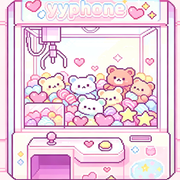
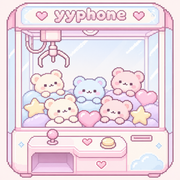
完善桌面图标分类与新增美化，修正撤回上下文和圣诞背景安全区

diff --git a/src/components/christmas.css b/src/components/christmas.css
@@ -1,5 +1,8 @@
 .christmas-scene{position:absolute;inset:0;z-index:190;isolation:isolate;overflow:hidden;background:#dbe3ee;color:#695e5a;font-family:'Songti SC','STSong',serif}.christmas-art{position:absolute;left:50%;top:50%;width:max(100%,calc(100cqh * .4615));height:max(100%,calc(100cqw / .4615));aspect-ratio:852/1846;transform:translate(-50%,-50%)}.christmas-scene{container-type:size}.christmas-art>img{position:absolute;width:100%;height:100%;object-fit:fill}.christmas-hotspot{position:absolute;border:0;background:transparent;cursor:pointer}.christmas-hotspot:focus-visible{outline:2px solid #fffbdf;outline-offset:2px;border-radius:20px}.christmas-tree{left:6%;top:24%;width:41%;height:41%}.christmas-star{position:absolute;top:0;left:45%;font-size:48px;color:#fff6d6;opacity:.25;transition:opacity 1s,filter 1s}.is-lit .christmas-star{opacity:1;filter:drop-shadow(0 0 18px #ffe2a3)}.is-lit .christmas-tree{background:radial-gradient(ellipse,#ffe3b72a,transparent 70%)}.christmas-door{left:86%;top:47%;width:12%;height:15%}.christmas-dog{font-size:30px;position:absolute;bottom:0;left:0;animation:xmas-appear .6s ease-out}.christmas-role-gift{left:15%;top:67%;width:16%;height:11%}.christmas-creator-gift{left:31%;top:69%;width:15%;height:11%}.christmas-hotspot>i{position:absolute;width:7px;height:7px;border-radius:50%;background:#fff9d8;box-shadow:0 0 16px 7px #fff6d575;animation:xmas-glow 2.6s ease-in-out infinite;left:50%;top:35%}.christmas-top{position:absolute;top:0;left:0;right:0;display:flex;justify-content:space-between;align-items:center;padding:calc(var(--safe-top,env(safe-area-inset-top,0px)) + 16px) 18px 12px;color:#fdfaf2;text-shadow:0 1px 8px #63718b66;font-size:13px;letter-spacing:2px}.christmas-top button{border:1px solid #ffffff77;border-radius:30px;padding:8px 12px;background:#ffffff26;backdrop-filter:blur(8px);color:#fffdf6;font:11px sans-serif;letter-spacing:0}.christmas-caption{position:absolute;bottom:calc(env(safe-area-inset-bottom,0px) + 26px);left:10px;right:10px;text-align:center;letter-spacing:2px;font-size:13px;color:#62595b;text-shadow:0 0 8px #fff}.christmas-snow{position:absolute;inset:0;pointer-events:none;overflow:hidden}.christmas-snow i{position:absolute;top:-12px;width:3px;height:3px;border-radius:50%;background:#fff;opacity:.8;animation:xmas-snow 10s linear infinite}.christmas-sheet-backdrop{position:absolute;inset:0;display:flex;align-items:center;justify-content:center;padding:calc(var(--safe-top,env(safe-area-inset-top,0px)) + 42px) 23px calc(env(safe-area-inset-bottom,0px) + 48px);background:#56617c20;backdrop-filter:blur(4px)}.christmas-scroll{position:relative;width:min(100%,420px);max-height:100%;overflow:auto;overscroll-behavior:contain;padding:35px 25px 30px;background:linear-gradient(90deg,#e8d9c5,#fff9ed 7%,#fffdf4 50%,#faf1df 93%,#e2cfb4);border-block:7px solid #bdab91;border-radius:6px;box-shadow:0 16px 60px #53627a40;animation:xmas-unroll .9s cubic-bezier(.2,.7,.2,1);transform-origin:center;color:#786c61;text-align:center}.christmas-scroll:before,.christmas-scroll:after{content:'';display:block;height:1px;background:#bfa78344;margin:0 0 16px}.christmas-scroll:after{margin:22px 0 0}.christmas-sheet-close{position:absolute;right:10px;top:7px;border:0;background:none;color:#9b8c7d;font-size:25px}.christmas-scroll>small{font:8px sans-serif;letter-spacing:3px;color:#a9967e}.christmas-scroll h1{font-weight:400;font-size:25px;letter-spacing:3px;margin:12px 0 24px}.christmas-scroll p{font-size:13px;line-height:2}.christmas-scroll label{display:block;text-align:left;font-size:12px;margin:16px 0}.christmas-scroll textarea,.christmas-scroll select{display:block;width:100%;margin-top:9px;border:1px solid #bda88b55;background:#fffdf788;border-radius:7px;padding:11px;color:#74675d;font:14px/1.9 inherit;box-sizing:border-box}.christmas-scroll textarea{resize:vertical;min-height:110px;max-height:35vh}.christmas-action{background:#98a99f;border:1px solid #ffffffaa;color:white;border-radius:30px;padding:11px 25px;font-size:12px;margin-top:12px;letter-spacing:2px}.christmas-scroll button:disabled{opacity:.55}.christmas-letter{white-space:pre-wrap;text-align:left;font-size:14px;line-height:2.15}.christmas-scroll footer{text-align:right;font-size:12px;margin-top:20px}.christmas-gift-description{border-block:1px solid #bfa78344;padding:12px 0;font-style:italic}.christmas-theme-swatch{height:130px;border-radius:10px;background:linear-gradient(#eef3f1bb,#f2e6dbbb),url('/openings/christmas.webp') center 56%/cover;color:#a58c69;padding:16px;font-size:30px}.christmas-theme-swatch span,.christmas-theme-swatch small{display:block;font-size:20px;letter-spacing:3px}.christmas-theme-swatch small{font:10px/3 sans-serif;letter-spacing:2px}.christmas-preview-note{color:#a9967e;font-size:10px!important}.christmas-error{color:#b15f68!important}.christmas-home{background:linear-gradient(#e9eff3aa,#fff5eab8),url('/openings/christmas.webp') center/cover!important;color:#6b7b7b}.christmas-home .minimal-day,.christmas-home .minimal-app-tile{background:#fffcf0bd;border-color:#fffaf0}.christmas-home .minimal-home-header{color:#958c7a}.christmas-home .minimal-app-glyph{color:#829487}.leisure-christmas{background:linear-gradient(#eaf0f4c9,#fff5eac9),url('/openings/christmas.webp') center/cover}.leisure-christmas .leisure-app-icon,[data-dock-style=christmas] .home-system-icon{background:#fffcf0c7;color:#829487;border:1px solid #fffdf5}.christmas-home .minimal-profile{border-bottom-color:#d6c9b6}.christmas-home .minimal-day:after{content:'❄';color:#ae9980;font-size:26px}
 [data-home-wallpaper] .christmas-home{background:transparent!important}
+:root{--christmas-desktop-background:linear-gradient(180deg,#e4eef8a8,#f7f7f1b0 45%,#e4eef3aa),url('/openings/christmas.webp') center/cover no-repeat}
+/* One canvas paints the wallpaper beneath both desktop pages, status bar and safe areas. */
+[data-home-style=christmas] :is(.christmas-home,.leisure-christmas){background:transparent!important}
 .christmas-password{display:flex;align-items:flex-end;gap:10px}.christmas-password label{flex:1;min-width:0;font-size:12px;color:#82919b}.christmas-password input{display:block;box-sizing:border-box;margin-top:9px;width:100%;padding:10px 12px;background:#ffffffa8;border:1px solid #d7e4eb;border-radius:12px;color:#586d79}.christmas-password button{padding:10px 18px;border-radius:12px;background:#dce8ef;font-size:12px;color:#5c7889}
 .christmas-snow-home{display:flex;flex-direction:column;position:relative;min-height:0;height:100%;overflow:hidden;background:linear-gradient(180deg,#e4eef8a8,#f7f7f1b0 45%,#e4eef3aa),url('/openings/christmas.webp') center/cover!important;color:#657e8c;font-family:'Songti SC','STSong',serif}.xmas-desktop-scroll{position:relative;min-height:0;flex:1;overflow-y:auto;overscroll-behavior:contain;padding:17px 22px 8px;scrollbar-width:none}.xmas-desktop-header{display:flex;align-items:center;justify-content:space-between;margin-bottom:22px}.xmas-desktop-header>span{font:9px/1.6 sans-serif;letter-spacing:3px;color:#7e939e}.xmas-desktop-header i{font-style:normal;font-size:15px;color:#fff;filter:drop-shadow(0 1px 2px #9eb8c2)}.xmas-desktop-header>div{display:flex;gap:15px}.xmas-desktop-header button{padding:4px}.xmas-profile{display:flex;align-items:center;gap:15px;margin-bottom:23px;padding:5px 0 10px}.xmas-snow-avatar{position:relative;isolation:isolate;flex-shrink:0;width:83px;height:83px;border-radius:50%;padding:var(--snow-frame,3px);background:linear-gradient(145deg,#ffffffee,#c9dce9aa);box-shadow:0 4px 16px #86a2b32a,inset 0 0 0 1px #fff}.xmas-snow-avatar>span{display:flex;align-items:center;justify-content:center;width:100%;height:100%;border-radius:50%;overflow:hidden;background:#e0ebf0;color:#8ca3b1;font:26px sans-serif}.xmas-snow-avatar img{width:100%;height:100%;object-fit:cover}.xmas-snow-cap{position:absolute;left:-3%;top:-8%;width:106%;height:55.12%;filter:drop-shadow(0 1px 1px #a5bfce33);pointer-events:none}.xmas-avatar-crystal{position:absolute;right:-5px;bottom:2px;width:25px;height:25px;color:#fff;background:#c7dce8b0;border-radius:50%;backdrop-filter:blur(3px);box-shadow:0 0 0 1px #ffffffb8}.xmas-avatar-crystal svg{width:100%;height:100%}.xmas-profile-copy{flex:1;min-width:0}.xmas-profile-copy>small{font:9px sans-serif;letter-spacing:1px;color:#91a2aa}.xmas-profile-copy h1{font-size:25px;line-height:1.3;overflow-wrap:anywhere;margin:7px 0;font-weight:400;color:#526b7b}.xmas-profile-copy p{font-size:11px;line-height:1.8;overflow-wrap:anywhere;margin:0;color:#85949b}.xmas-date-stamp{display:flex;flex-direction:column;align-items:center;justify-content:center;min-width:49px;padding-left:10px;border-left:1px solid #ffffffb3}.xmas-date-stamp>small{font:8px sans-serif;letter-spacing:2px;color:#8198a6}.xmas-date-stamp strong{font-weight:300;font-size:28px;line-height:1.3}.xmas-date-stamp>span{font:9px sans-serif;color:#879da9}
 .xmas-ice-music{position:relative;display:flex;align-items:center;gap:17px;min-height:148px;margin:0 -2px 15px;padding:14px 15px 14px 8px;border:1px solid #ffffffe6;border-radius:28px;background:linear-gradient(125deg,#ffffff82,#e2eef47a 50%,#f9faffb3);box-shadow:inset 0 1px 10px #ffffffc4,0 8px 24px #7895ab19;backdrop-filter:blur(9px)}.xmas-ice-music:before{content:'';position:absolute;left:32%;right:15%;top:-3px;height:6px;border-radius:50%;background:#fff9;filter:blur(2px)}.xmas-record-holder{position:relative;flex-shrink:0;width:125px;height:125px;display:grid;place-items:center}.xmas-ice-record{position:relative;width:113px;height:113px;overflow:hidden;border-radius:50%;border:1px solid #fffffff0;background:repeating-radial-gradient(circle,#d8eaf14d 0 2px,#ffffff3b 2px 3px,#a8c9d733 3px 4px),conic-gradient(from 35deg,#e4f5ff88,#f8ffffeb,#c9e2f3b8,#ffffffbd,#e4f5ff88);box-shadow:inset 0 0 0 5px #ffffff66,inset 0 0 14px #bad5e18c,0 7px 10px #88aab328;animation:xmas-record-spin 26s linear infinite;animation-play-state:paused}.xmas-ice-record.is-playing{animation-play-state:running}.xmas-ice-record>svg{position:absolute;inset:6%;width:88%;height:88%;color:#fffffff5;filter:drop-shadow(0 0 2px #a6c7d9)}.xmas-record-center{position:absolute;left:43%;top:43%;width:14%;height:14%;border-radius:50%;background:#e4f0f5;border:3px solid #fff;box-shadow:0 0 0 3px #b9d5e066}.xmas-record-glint{position:absolute;inset:0;border-radius:50%;background:linear-gradient(120deg,transparent 20%,#fff9 23%,transparent 28%,transparent 70%,#fff9 72%,transparent 74%);pointer-events:none}.xmas-record-needle{position:absolute;width:35px;height:58px;right:1px;top:1px;border-top:3px solid #9bb3c0;border-right:3px solid #9bb3c0;border-radius:0 10px 0 0;transform:rotate(23deg);transform-origin:top right;filter:drop-shadow(1px 1px 1px #fff)}.xmas-record-needle:after{content:'';position:absolute;width:7px;height:13px;right:-5px;bottom:-4px;background:#d2bdbf;border:1px solid #fffbf2;border-radius:3px}.xmas-music-copy{flex:1;min-width:0}.xmas-music-copy>small{font:7px/1.5 sans-serif;letter-spacing:2px;color:#99aab4}.xmas-song-title{display:block;max-width:100%;font-size:17px;font-family:inherit;overflow:hidden;text-overflow:ellipsis;white-space:nowrap;margin:9px 0 6px;color:#5f7c8c}.xmas-music-copy>p{margin:0;font-size:10px;color:#98a8b2;overflow-wrap:anywhere}.xmas-music-controls{display:flex;align-items:center;gap:10px;margin-top:14px}.xmas-music-controls button{color:#85a0b0;display:grid;place-items:center;width:22px;height:24px}.xmas-music-controls button:disabled{opacity:.3}.xmas-music-controls span{font:8px sans-serif;color:#97aab7;margin-left:auto}.xmas-desktop-divider{display:flex;align-items:center;gap:13px;justify-content:center;font-size:17px;color:#c0ced7;margin:17px 0}.xmas-desktop-divider span{height:1px;width:65px;background:linear-gradient(90deg,transparent,#ffffffd9,transparent)}.xmas-app-grid{display:grid;grid-template-columns:repeat(4,minmax(0,1fr));gap:20px 10px}.xmas-app{display:flex;flex-direction:column;align-items:center;gap:9px;color:#7b8f9d;font:10px sans-serif;min-width:0}.xmas-app-tile{position:relative;isolation:isolate;display:grid;place-items:center;width:49px;height:49px;border-radius:17px;background:linear-gradient(145deg,#faffffcf,#deebf1a1);border:1px solid #ffffffe6;box-shadow:inset 0 1px 7px #ffffffd9,0 4px 8px #7396ac13}.xmas-app-tile:before{content:'';position:absolute;pointer-events:none;top:-3px;left:7px;right:7px;height:8px;background:#fffefa;border-radius:60% 50% 45% 40%;box-shadow:0 1px 2px #a7c0ce1f}.xmas-app-tile:after{content:'';position:absolute;pointer-events:none;width:4px;height:7px;top:3px;left:12px;background:#fffefa;border-radius:0 0 5px 5px}.xmas-app-tile>img{width:100%;height:100%;object-fit:cover;border-radius:inherit}.xmas-app-glyph{width:23px;height:23px;stroke-width:1.4}.xmas-app-tile>small{position:absolute;top:-4px;right:-4px;padding:1px 4px;background:#c6aeb5;border-radius:10px;font:8px sans-serif;color:white;z-index:1}.xmas-home-footer{display:flex;justify-content:space-between;gap:10px;color:#98a7af;font-size:9px;margin-top:26px;padding:7px 0;letter-spacing:1px}.little-p-launcher.is-snowman{width:65px;height:77px;padding:0;background:none!important;border:0!important;box-shadow:none!important;border-radius:0;backdrop-filter:none;color:inherit}.little-p-snowman-art{width:100%;height:100%;filter:drop-shadow(0 3px 6px #829ca92b)}[data-dock-style=christmas]{background:linear-gradient(135deg,#fffdf5cf,#e6eff3b8);border:1px solid #ffffffed;box-shadow:inset 0 1px 10px #ffffffc9,0 7px 22px #839dae1f;backdrop-filter:blur(10px)}[data-dock-style=christmas] .home-system-icon{border-radius:18px;background:linear-gradient(145deg,#faffffdf,#e5eff6aa);color:#7c9aaa;box-shadow:inset 0 1px 4px #fff}[data-dock-style=christmas] .home-system-name{color:#8195a3}.leisure-christmas .leisure-app-icon{background:linear-gradient(145deg,#faffffe8,#e0edf4b0);box-shadow:inset 0 2px 3px #fff,0 3px 8px #8ca6b31f;border-color:#fff;color:#819ba9}.leisure-christmas .leisure-app{color:#8195a3}.christmas-snow-home.has-wallpaper{background:transparent!important}

diff --git a/src/components/LauncherIconSettings.tsx b/src/components/LauncherIconSettings.tsx
@@ -1,23 +1,27 @@
-import { useState } from 'react';
-import { Check, ChevronDown, Download, Smartphone } from 'lucide-react';
-import { LAUNCHER_ICONS, launcherIconPaths, readLauncherIcon, saveLauncherIcon, type LauncherIconId } from '../utils/launcherIcons';
+import { useEffect, useRef, useState } from 'react';
+import { createPortal } from 'react-dom';
+import { ArrowLeft, Check, ChevronRight, Download, Smartphone } from 'lucide-react';
+import { DEFAULT_LAUNCHER_ICON, LAUNCHER_ICON_CATEGORIES, LAUNCHER_ICONS, launcherIconPaths, readLauncherIcon, saveLauncherIcon, type LauncherIconId } from '../utils/launcherIcons';
+import './launcherIconSettings.css';
 
 export function LauncherIconSettings() {
-  const [selected, setSelected] = useState(readLauncherIcon), [error, setError] = useState('');
-  const choose = (id: LauncherIconId) => {
-    try { saveLauncherIcon(id); setSelected(id); setError(''); }
-    catch { setError('图标选择未能保存，请重试。'); }
-  };
-  const paths = launcherIconPaths(selected), current = LAUNCHER_ICONS.find(icon => icon.id === selected)!;
-  return <details className="glass-card group rounded-2xl p-3 launcher-icon-settings">
-    <summary className="flex cursor-pointer list-none items-center gap-2 text-xs font-bold text-[#2C4A5C]"><Smartphone size={14} className="text-sky-500"/><span className="flex-1">手机桌面图标</span><ChevronDown size={13} className="text-slate-400 transition-transform group-open:rotate-180"/></summary>
-    <div className="mt-3 space-y-3">
-      <div className="grid grid-cols-4 gap-2">{LAUNCHER_ICONS.map(icon => <button key={icon.id} type="button" aria-label={`选择${icon.name}桌面图标`} aria-pressed={selected === icon.id} onClick={() => choose(icon.id)} className="min-w-0 space-y-1.5 text-center text-[10px] text-slate-500">
-        <span className={`relative block aspect-square overflow-hidden rounded-2xl border-2 ${selected === icon.id ? 'border-sky-300 shadow-sm' : 'border-white/70'}`}><img src={launcherIconPaths(icon.id).image} alt={icon.name} className="h-full w-full object-cover" loading="lazy"/>{selected === icon.id && <span className="absolute right-0.5 bottom-0.5 rounded-full bg-white p-0.5 text-sky-500"><Check size={11}/></span>}</span><span>{icon.name}</span>
-      </button>)}</div>
-      <a href={paths.image} download={`歪歪机-${current.name}.png`} className="inline-flex items-center gap-1.5 rounded-xl bg-white/80 px-3 py-2 text-[11px] text-slate-600"><Download size={12}/>保存图标</a>
-      <p className="text-[10px] leading-relaxed text-slate-500">如果浏览器不支持直接更换图标，请先导出整机备份，再在浏览器打开歪歪机网页，选择图标后添加到手机桌面，最后按需导入备份。备份完成前请保留旧入口。</p>
-      {error && <p role="alert" className="text-[11px] text-rose-500">{error}</p>}
-    </div>
-  </details>;
+  const [selected,setSelected]=useState(readLauncherIcon),[error,setError]=useState('');
+  const [open,setOpen]=useState(false),[category,setCategory]=useState('全部');
+  const [container,setContainer]=useState<HTMLElement|null>(null);
+  const entry=useRef<HTMLButtonElement>(null),dialog=useRef<HTMLElement>(null),back=useRef<HTMLButtonElement>(null);
+  useEffect(()=>{if(!open)return;back.current?.focus({preventScroll:true});return()=>entry.current?.focus({preventScroll:true});},[open,container]);
+  const choose=(id:LauncherIconId)=>{try{saveLauncherIcon(id);setSelected(id);setError('');}catch{setError('图标选择未能保存，请重试。');}};
+  const paths=launcherIconPaths(selected),current=LAUNCHER_ICONS.find(icon=>icon.id===selected)!;
+  return <>
+    <button type="button" ref={entry} className="glass-card launcher-gallery-entry" aria-haspopup="dialog" aria-expanded={open} onClick={()=>{setSelected(readLauncherIcon());setError('');setContainer(entry.current?.closest<HTMLElement>('[data-phone-canvas]')??document.body);setOpen(true);}}><span className="launcher-entry-symbol"><Smartphone size={18}/></span><strong>小手机图标</strong><img src={paths.image} alt=""/><small>{current.name}</small><ChevronRight size={15}/></button>
+    {open&&container&&createPortal(<section ref={dialog} className="launcher-gallery" role="dialog" aria-modal="true" aria-label="小手机图标" onKeyDown={e=>{
+      if(e.key==='Escape'){e.stopPropagation();setOpen(false);}
+      if(e.key==='Tab'){const items=Array.from(dialog.current?.querySelectorAll<HTMLElement>('button:not(:disabled),a[href],summary')??[]).filter(n=>n.getClientRects().length),first=items[0],last=items.at(-1);if(e.shiftKey&&document.activeElement===first){e.preventDefault();last?.focus();}else if(!e.shiftKey&&document.activeElement===last){e.preventDefault();first?.focus();}}
+    }}>
+      <header><button type="button" ref={back} data-swipe-back aria-label="返回美化" onClick={()=>setOpen(false)}><ArrowLeft size={21}/></button><h2>小手机图标</h2><span/></header>
+      <nav className="launcher-category-tabs" aria-label="图标分类">{['全部',...LAUNCHER_ICON_CATEGORIES].map(name=><button key={name} type="button" aria-pressed={category===name} onClick={()=>setCategory(name)}>{name}</button>)}</nav>
+      <div className="launcher-gallery-scroll">{LAUNCHER_ICON_CATEGORIES.filter(name=>category==='全部'||category===name).map(name=><section className="launcher-icon-group" key={name} aria-label={`${name}图标`}><h3>{name}</h3><div className={`launcher-icon-grid${name==='游戏机'?' is-machines':''}`}>{LAUNCHER_ICONS.filter(icon=>icon.category===name).map(icon=><button key={icon.id} type="button" aria-label={`选择${icon.name}桌面图标`} aria-pressed={selected===icon.id} onClick={()=>choose(icon.id)}><span className="launcher-icon-preview"><img src={launcherIconPaths(icon.id).image} alt={icon.name} loading="lazy"/>{selected===icon.id&&<i><Check size={13}/></i>}</span><span>{icon.name}{icon.id===DEFAULT_LAUNCHER_ICON&&<small>默认</small>}</span></button>)}</div></section>)}</div>
+      <footer><div><img src={paths.image} alt=""/><span><small>当前图标</small><strong>{current.name}</strong></span><a href={paths.image} download={`歪歪机-${current.name}.png`}><Download size={14}/>保存图标</a></div><details><summary>桌面图标没有更新？</summary><p>如果浏览器不支持直接更换图标，请先导出整机备份，再在浏览器打开歪歪机网页，选择图标后添加到手机桌面，最后按需导入备份。备份完成前请保留旧入口。</p></details>{error&&<p role="alert">{error}</p>}</footer>
+    </section>,container)}
+  </>;
 }

diff --git a/src/utils/chatRecall.test.ts b/src/utils/chatRecall.test.ts
@@ -1,10 +1,11 @@
 import assert from 'node:assert/strict';
-import { beforeEach, test } from 'node:test';
+import { afterEach, beforeEach, mock, test } from 'node:test';
 import { clearDbStorage } from './dbStorage';
 import { writeStoredValue } from './localStorage';
 import { canRecallMessage, recallContext, recallMessage, recallTimeline, parseRecallActions, characterRecallInstructions, validChatRecall, type RecallMessage } from './chatRecall';
 import { buildPrompt } from './buildPrompt';
 import { readDirectMessages } from './journalData';
+import { generatePhoneScope } from './phoneAi';
 
 const values = new Map<string, string>();
 Object.defineProperty(globalThis, 'window', { configurable: true, value: { localStorage: {
@@ -12,6 +13,7 @@ Object.defineProperty(globalThis, 'window', { configurable: true, value: { local
   clear: () => values.clear(), key: (i: number) => [...values.keys()][i] ?? null, get length() { return values.size; },
 } } });
 beforeEach(async () => { values.clear(); await clearDbStorage(); });
+afterEach(() => mock.restoreAll());
 const user: RecallMessage = { id: 'user-message', senderId: 'user', kind: 'text', text: 'WITHDRAWN_PRIVATE_SENTINEL', createdAt: '2026-11-12T12:00:00Z' };
 const char: RecallMessage = { id: 'char-message', senderId: 'a', kind: 'text', text: 'CHAR_PRIVATE_SENTINEL', createdAt: '2026-11-12T12:01:00Z' };
 function seed(messages: RecallMessage[], type = 'direct') {
@@ -79,6 +81,44 @@ test('proactive contact never promotes an empty recalled message to current inpu
   assert.match(JSON.stringify(prompt), /上次聊天间隔/);
   seed([recallMessage(user, ['a'], [], () => .99)]);
   assert.doesNotMatch(JSON.stringify(buildPrompt({ chatId: 'chat', currentInput: '', proactive: true })), /WITHDRAWN_PRIVATE_SENTINEL/);
+});
+
+test('unseen recall is only a notice; seen recall contains the text without instructions to question the user', () => {
+  const unseen = recallMessage(user, ['a'], [], () => .99);
+  assert.equal(recallContext(unseen, ['a']), '[玩家撤回了一条消息]');
+  const seen = recallMessage(user, ['a'], [], () => .1);
+  assert.equal(recallContext(seen, ['a']), '[玩家撤回了一条消息] 你看到了，内容为："WITHDRAWN_PRIVATE_SENTINEL"');
+  assert.doesNotMatch(recallContext(seen, ['a']), /可以自然询问|追问|每轮|不能猜中/);
+});
+
+test('diary history-only context retains recalled messages once in history without replaying a current input', () => {
+  const seen = recallMessage(user, ['a'], [], () => .1);
+  seen.recall!.at = '2026-11-12T12:03:00Z'; seed([seen, char]);
+  const prompt = buildPrompt({chatId:'chat', historyOnly:true});
+  assert.equal(prompt.filter(p=>p.tokenCategory==='currentInput').length,0);
+  const recalls = prompt.filter(p=>p.content.includes('WITHDRAWN_PRIVATE_SENTINEL'));
+  assert.equal(recalls.length,1);assert.equal(recalls[0].tokenCategory,'history');assert.match(recalls[0].content,/撤回发生时间/);
+  seed([recallMessage(user,['a'],[],()=>.99),char]);
+  const hidden = buildPrompt({chatId:'chat', historyOnly:true});assert.doesNotMatch(JSON.stringify(hidden),/WITHDRAWN_PRIVATE_SENTINEL/);
+});
+
+test('actual icity requests keep recalls in dated background, never in the current user task', async () => {
+  writeStoredValue('yyphone:api-presets', [{ id:'test',name:'test',endpoint:'https://test.invalid/v1',apiKey:'test',model:'test' }]);
+  const requests: Array<{messages:Array<{role:string;content:string}>}> = [];
+  mock.method(globalThis,'fetch',async(_url:unknown,init?:RequestInit) => {
+    requests.push(JSON.parse(String(init?.body)));
+    return Response.json({choices:[{message:{content:JSON.stringify({diaries:[{dateStr:'11月17日',timeStr:'19:00',weather:'未记录',mood:'平静',content:'今天把手边的事情做完，才想起昨晚的聊天。'}]})}}]});
+  });
+  for (const seen of [true,false]) {
+    const recalled=recallMessage(user,['a'],[],()=>seen ? .1 : .99);recalled.recall!.at='2026-11-12T12:03:00Z';seed([recalled,char]);
+    await generatePhoneScope('icity',{charId:'a',charName:'甲',userName:'玩家',npcs:[]},{charId:'a',wallpaperUrl:'',userRemark:'',npcThreads:[],photos:[],browserHistory:[],notes:[],icityDiaries:[],agentSession:{doubaoTopic:'',doubaoTurns:[],claudeTopic:'',claudeTurns:[]}});
+    const messages=requests.at(-1)!.messages;
+    assert(messages.every(m=>m.role!=='user'||!m.content.includes('WITHDRAWN_PRIVATE_SENTINEL')));
+    const background=messages.filter(m=>m.role==='system').map(m=>m.content).join('\n');
+    assert.equal(background.split('WITHDRAWN_PRIVATE_SENTINEL').length-1,seen?1:0);
+    assert.match(background,/撤回发生时间/);
+  }
+  assert.equal(requests.length,2);
 });
 
 test('proactive time gap ignores recent system notes; disabling time awareness omits the gap and recall timestamps', () => {

diff --git a/src/components/launcherIconSettings.css b/src/components/launcherIconSettings.css
@@ -1,0 +1,1 @@
+.launcher-gallery-entry{display:flex;align-items:center;gap:9px;width:100%;padding:12px;border-radius:16px;color:#607b8d;text-align:left}.launcher-entry-symbol{display:grid;place-items:center;width:32px;height:32px;border-radius:11px;background:#eaf2f8;color:#86adc3;flex-shrink:0}.launcher-gallery-entry strong{flex:1;font-size:12px}.launcher-gallery-entry>img{width:25px;height:25px;object-fit:cover;border-radius:7px}.launcher-gallery-entry>small{font-size:10px;color:#98a8b4}.launcher-gallery{position:absolute;inset:0;z-index:180;display:flex;flex-direction:column;min-height:0;background:radial-gradient(ellipse at 100% 0,#f9eaf3aa,transparent 60%),linear-gradient(150deg,#f0f7fc,#faf7fa);color:#61778b;isolation:isolate}.launcher-gallery>header{display:flex;align-items:center;justify-content:space-between;padding:calc(var(--safe-top,env(safe-area-inset-top,0px)) + 8px) 13px 10px;border-bottom:1px solid #ffffffc9}.launcher-gallery>header button,.launcher-gallery>header>span{width:36px;height:36px;display:grid;place-items:center}.launcher-gallery>header h2{font-size:15px;font-weight:600;letter-spacing:2px}.launcher-category-tabs{display:flex;gap:8px;flex-shrink:0;overflow-x:auto;padding:14px 18px 10px;scrollbar-width:none}.launcher-category-tabs button{white-space:nowrap;border:1px solid transparent;padding:7px 17px;border-radius:24px;font-size:11px;color:#97a5b5}.launcher-category-tabs button[aria-pressed=true]{background:#fffafc;border-color:#fff;box-shadow:0 3px 10px #8a9db010;color:#6f859d}.launcher-gallery-scroll{flex:1;min-height:0;overflow:auto;overscroll-behavior:contain;padding:0 20px 25px}.launcher-icon-group{padding-top:17px}.launcher-icon-group h3{font-size:12px;font-weight:600;letter-spacing:2px;margin-bottom:14px;color:#8093a6}.launcher-icon-grid{display:grid;grid-template-columns:repeat(2,minmax(0,1fr));gap:20px}.launcher-icon-grid.is-machines{grid-template-columns:repeat(3,minmax(0,1fr));gap:12px}.launcher-icon-grid button{min-width:0;color:#7c8c9e;font-size:11px;text-align:center}.launcher-icon-preview{position:relative;display:block;aspect-ratio:1;overflow:hidden;border:2px solid #ffffffd9;border-radius:23%;box-shadow:0 4px 14px #8396aa13}.launcher-icon-preview img{width:100%;height:100%;object-fit:cover}.launcher-icon-grid button[aria-pressed=true] .launcher-icon-preview{border-color:#a8c7db;box-shadow:0 0 0 3px #c4dcec4d}.launcher-icon-preview i{position:absolute;right:7px;bottom:7px;background:#fffdfb;color:#85a9bf;border-radius:50%;display:grid;place-items:center;width:21px;height:21px;font-style:normal}.launcher-icon-grid button>span:last-child{display:flex;gap:5px;align-items:center;justify-content:center;margin-top:9px}.launcher-icon-grid small{font-size:8px;color:#a2b4c0;background:#e7f0f5;border-radius:4px;padding:1px 3px}.launcher-gallery>footer{flex-shrink:0;padding:12px 19px calc(env(safe-area-inset-bottom,0px) + 14px);background:#ffffffa3;border-top:1px solid #fff;backdrop-filter:blur(15px)}.launcher-gallery>footer>div{display:flex;align-items:center;gap:10px}.launcher-gallery>footer img{width:39px;height:39px;object-fit:cover;border-radius:11px}.launcher-gallery>footer>div>span{flex:1;display:grid;gap:3px}.launcher-gallery>footer small{font-size:9px;color:#a1afbb}.launcher-gallery>footer strong{font-size:12px;font-weight:500}.launcher-gallery>footer a{display:flex;gap:6px;align-items:center;background:#eaf2f7;border:1px solid #fff;border-radius:12px;padding:9px 12px;font-size:11px;color:#7997ab}.launcher-gallery>footer details{margin-top:9px;font-size:9px;color:#9aa8b4}.launcher-gallery>footer summary{cursor:pointer}.launcher-gallery>footer p{font-size:10px;line-height:1.8;margin-top:7px}.launcher-gallery [role=alert]{color:#b77584}@media(max-width:350px){.launcher-gallery-scroll{padding-inline:16px}.launcher-category-tabs{padding-inline:12px;gap:5px}.launcher-category-tabs button{padding-inline:14px}.launcher-icon-grid{gap:15px}}

diff --git a/src/utils/chatRecall.ts b/src/utils/chatRecall.ts
@@ -34,17 +34,15 @@ export function recallMessage<T extends RecallMessage>(message: T, participants:
   return result as T;
 }
 export function recallContext(message: RecallMessage, viewerIds: readonly string[]): string {
-  if (!validChatRecall(message.recall)) return '[一条消息已撤回，原内容不可见]';
+  if (!validChatRecall(message.recall)) return '[一条消息已撤回]';
   const r = message.recall;
   const allowed = viewerIds.filter(id => id === message.senderId || r.seenBy.includes(id));
   const denied = viewerIds.filter(id => !allowed.includes(id));
   const status = `[${message.senderId === 'user' ? '玩家' : `成员 ${message.senderId}`}撤回了一条消息]`;
-  if (!allowed.length) return `${status} 你没有看到撤回前的内容，不能猜中、引用或回应其具体内容；可以自然询问，也可以不追问。`;
-  return [status,
-    `仅这些角色看到了原内容或是原作者：${allowed.join('、')}。${denied.length ? `这些角色没有看到：${denied.join('、')}，不得知道或引用原文，除非其他人在之后明确告知。` : ''}`,
-    `可知原内容：${JSON.stringify({ kind: r.original.kind, text: r.original.text, title: r.original.title, content: r.original.content, source: r.original.source, stickerId: r.original.stickerId })}`,
-    '这是已经撤回的旧消息，不是新发言。原作者记得自己撤回了什么，但不要每轮反复提起。',
-  ].join('\n');
+  if (!allowed.length) return status;
+  const content = r.original.kind === 'text' ? JSON.stringify(r.original.text) : JSON.stringify({ kind: r.original.kind, text: r.original.text, title: r.original.title, content: r.original.content, source: r.original.source, stickerId: r.original.stickerId });
+  if (viewerIds.length === 1) return `${status} 你看到了，内容为：${content}`;
+  return `${status} 这些角色看到了：${allowed.join('、')}，内容为：${content}${denied.length ? `；这些角色没有看到：${denied.join('、')}` : ''}`;
 }
 export function recallTimeline<T extends RecallMessage>(messages: T[], ids: ReadonlySet<string>, participants: string[], random = Math.random): T[] {
   const updated = messages.map(message => ids.has(message.id) && canRecallMessage(message) ? recallMessage(message, participants, messages, random) : message);

diff --git a/src/utils/buildPrompt.ts b/src/utils/buildPrompt.ts
@@ -126,6 +126,8 @@ export interface BuildPromptOptions {
   currentInput?: string;
   /** No new user utterance exists on a scheduled proactive turn. */
   proactive?: boolean;
+  /** Background writing reads the timeline without creating or replaying a current user turn. */
+  historyOnly?: boolean;
   historyLimit?: number;
   /** Caller-specific cap across current and mounted chats; does not change saved chat settings. */
   historyWindowOverride?: number;
@@ -884,8 +886,8 @@ export const buildPrompt = (options: BuildPromptOptions): OpenAiMessage[] => {
   const continueGroup = chat.type !== 'direct' &&
     (!latestGroupTurn || latestGroupTurn.senderId !== 'user' && latestGroupTurn.source !== 'user-narration') &&
     (currentInput === undefined || !currentInput.trim() || currentInput === previousUserInput);
-  const requestedInput = options.proactive || continueGroup ? '' : currentInput ?? previousUserInput;
-  const latestUserMessage = options.proactive || continueGroup ? undefined : [...chat.messages].reverse().find(
+  const requestedInput = options.historyOnly || options.proactive || continueGroup ? '' : currentInput ?? previousUserInput;
+  const latestUserMessage = options.historyOnly || options.proactive || continueGroup ? undefined : [...chat.messages].reverse().find(
     (message) => (message.senderId === 'user' || message.source === 'user-narration') && message.text === requestedInput
   );
   const input = latestUserMessage?.kind === 'recalled' ? recallContext(latestUserMessage, chat.participantIds) : latestUserMessage?.source === 'user-narration' ? toMessageContent(latestUserMessage) : latestUserMessage?.kind === 'forum-forward' &&
@@ -1066,6 +1068,7 @@ export const buildPrompt = (options: BuildPromptOptions): OpenAiMessage[] => {
       ].filter(Boolean).join('\n'),
     });
   }
+  if (options.historyOnly) return messages;
   messages.push({
     role: 'user',
     tokenCategory: 'currentInput',

diff --git a/src/utils/launcherIcons.test.ts b/src/utils/launcherIcons.test.ts
@@ -5,7 +5,8 @@ import { DEFAULT_LAUNCHER_ICON, LAUNCHER_ICONS, LAUNCHER_ICON_KEY, isLauncherIco
 import { isPersonaRecordKey } from './personaStorage';
 
 test('launcher choices are device-wide and preserve GitHub Pages base paths', () => {
-  assert.equal(DEFAULT_LAUNCHER_ICON, 'mist-garden');
+  assert.equal(DEFAULT_LAUNCHER_ICON, 'pastel-yy');
+  assert.equal(LAUNCHER_ICONS.find(icon => icon.id === DEFAULT_LAUNCHER_ICON)?.name, '晴染');
   assert.equal(LAUNCHER_ICONS.find(icon => icon.id === 'default')?.name, '初见');
   assert.equal(isPersonaRecordKey('yyphone:launcher-icon'), false);
   assert.equal(isLauncherIcon('claw'), true); assert.equal(isLauncherIcon('javascript:alert(1)'), false);
@@ -13,9 +14,9 @@ test('launcher choices are device-wide and preserve GitHub Pages base paths', ()
   assert.equal(launcherIconPaths('slot', '/').apple, '/app-icon-options/slot/icon-180.png');
 });
 
-test('initial install manifest uses the garden while the original icon remains a separate choice', async () => {
+test('initial install manifest uses Qingran while the original icon remains a separate choice', async () => {
   const manifest = JSON.parse(await readFile(new URL('../../public/manifest.json', import.meta.url), 'utf8'));
-  assert(manifest.icons.every((icon: { src: string }) => icon.src.includes('/mist-garden/')));
+  assert(manifest.icons.every((icon: { src: string }) => icon.src.includes(`/${DEFAULT_LAUNCHER_ICON}/`)));
   const old = JSON.parse(await readFile(new URL('../../public/app-icon-options/default/manifest.webmanifest', import.meta.url), 'utf8'));
   assert.equal(new URL(old.start_url, 'https://phone.invalid/app-icon-options/default/manifest.webmanifest').searchParams.get('launcher'), 'default');
 });

diff --git a/src/App.tsx b/src/App.tsx
@@ -546,6 +546,7 @@ export default function App() {
     const homeImage = beautySettings.wallpapers.homeScreen;
     const background = homeImage
       ? `url("${homeImage}") center / cover no-repeat`
+      : !activeApp && !isLocked && activeHomeStyle === 'christmas' ? 'var(--christmas-desktop-background)'
       : !activeApp && !isLocked && activeHomeStyle === 'halloween' ? '#2b263e' : currentWallpaper.style;
     document.documentElement.style.background = background;
     document.body.style.background = background;
@@ -687,7 +688,7 @@ export default function App() {
                 backgroundSize: 'cover',
                 backgroundPosition: 'center',
               }
-            : !activeApp && !isLocked && activeHomeStyle === 'halloween' ? { background: '#2b263e' } : !activeApp && !isLocked && activeHomeStyle === 'minimal' ? { background: '#f4f2ee' } : !activeApp && !isLocked && activeHomeStyle === 'moonlit' ? { background: '#ede9f4' } : { background: currentWallpaper.style }
+            : !activeApp && !isLocked && activeHomeStyle === 'christmas' ? { background: 'var(--christmas-desktop-background)' } : !activeApp && !isLocked && activeHomeStyle === 'halloween' ? { background: '#2b263e' } : !activeApp && !isLocked && activeHomeStyle === 'minimal' ? { background: '#f4f2ee' } : !activeApp && !isLocked && activeHomeStyle === 'moonlit' ? { background: '#ede9f4' } : { background: currentWallpaper.style }
         }
       >
         <EdgeSwipeBack enabled={!isLocked && !openingVisible}/>

diff --git a/src/utils/launcherIcons.ts b/src/utils/launcherIcons.ts
@@ -1,11 +1,16 @@
 import { readStoredValue, writeStoredValue } from './localStorage';
 
 export const LAUNCHER_ICON_KEY = 'yyphone:launcher-icon';
-export const DEFAULT_LAUNCHER_ICON = 'mist-garden';
+export const DEFAULT_LAUNCHER_ICON = 'pastel-yy';
+export const LAUNCHER_ICON_CATEGORIES = ['初始', '画板', '游戏机', '哥特'] as const;
 export const LAUNCHER_ICONS = [
-  { id: 'mist-garden', name: '雾色花园' },
-  { id: 'default', name: '初见' }, { id: 'claw', name: '抓娃娃机' },
-  { id: 'slot', name: '老虎机' }, { id: 'ndsl', name: 'NDSL' },
+  { id: 'mist-garden', name: '雾色花园', category: '画板' },
+  { id: 'sunlit-sea', name: '晴海', category: '画板' },
+  { id: 'default', name: '初见', category: '初始' }, { id: 'claw', name: '抓娃娃机', category: '游戏机' },
+  { id: 'pastel-yy', name: '晴染', category: '初始' },
+  { id: 'slot', name: '老虎机', category: '游戏机' }, { id: 'ndsl', name: 'NDSL', category: '游戏机' },
+  { id: 'gothic-rose', name: '蔷薇圣窗', category: '哥特' },
+  { id: 'silent-manuscript', name: '缄默手稿', category: '哥特' },
 ] as const;
 export type LauncherIconId = typeof LAUNCHER_ICONS[number]['id'];
 export const isLauncherIcon = (value: unknown): value is LauncherIconId => LAUNCHER_ICONS.some(icon => icon.id === value);

diff --git a/src/apps/ThemeCustomizerApp.tsx b/src/apps/ThemeCustomizerApp.tsx
@@ -362,6 +362,7 @@ export const ThemeCustomizerApp: React.FC<ThemeCustomizerAppProps> = ({
       />
 
       <div className="flex-1 min-h-0 overflow-y-auto no-scrollbar p-4 space-y-4">
+        <LauncherIconSettings/>
         <details className="glass-card group rounded-2xl p-3">
           <summary className="flex cursor-pointer list-none items-center gap-2 text-xs font-bold text-[#2C4A5C]">
             <Palette className="h-3.5 w-3.5 shrink-0 text-pink-500" />
@@ -537,7 +538,6 @@ export const ThemeCustomizerApp: React.FC<ThemeCustomizerAppProps> = ({
           </div>
         </details>
         <GlobalFontSettings fontSettings={fontSettings} onSaveFontSettings={onSaveFontSettings} />
-        <LauncherIconSettings/>
         <details className="glass-card group rounded-2xl p-3">
           <summary className="flex cursor-pointer list-none items-center gap-2 text-xs font-bold text-[#2C4A5C]">
             <LayoutGrid className="h-3.5 w-3.5 shrink-0 text-pink-500" />

diff --git a/index.html b/index.html
@@ -17,8 +17,8 @@
     <meta name="apple-mobile-web-app-capable" content="yes" />
     <meta name="apple-mobile-web-app-status-bar-style" content="black-translucent" />
     <meta name="apple-mobile-web-app-title" content="歪歪机" />
-    <link rel="apple-touch-icon" href="%BASE_URL%app-icon-options/mist-garden/icon-180.png" />
-    <link rel="icon" type="image/png" href="%BASE_URL%app-icon-options/mist-garden/icon-512.png" />
+    <link rel="apple-touch-icon" href="%BASE_URL%app-icon-options/pastel-yy/icon-180.png" />
+    <link rel="icon" type="image/png" href="%BASE_URL%app-icon-options/pastel-yy/icon-512.png" />
 
     <link rel="preconnect" href="https://fonts.googleapis.com" />
     <link rel="preconnect" href="https://fonts.gstatic.com" crossorigin />

diff --git a/src/utils/phoneAi.ts b/src/utils/phoneAi.ts
@@ -144,7 +144,7 @@ export const generatePhoneScope = async (
     item.type === 'direct' && Array.isArray(item.participantIds) &&
     item.participantIds.length === 1 && item.participantIds[0] === ctx.charId) : undefined;
   const background = buildPrompt({ chatId: chat && typeof chat.id === 'string' ? chat.id : '',
-    backgroundCharacterId: ctx.charId, currentInput: '', memoryInjection: memory, historyWindowOverride: PHONE_HISTORY_LIMIT });
+    backgroundCharacterId: ctx.charId, historyOnly: true, memoryInjection: memory, historyWindowOverride: PHONE_HISTORY_LIMIT });
   const scopes = scope === 'all' ? PHONE_GEN_SCOPES : [scope];
   const system = [
     ...background.filter((message) => message.role === 'system').map((message) => message.content),
